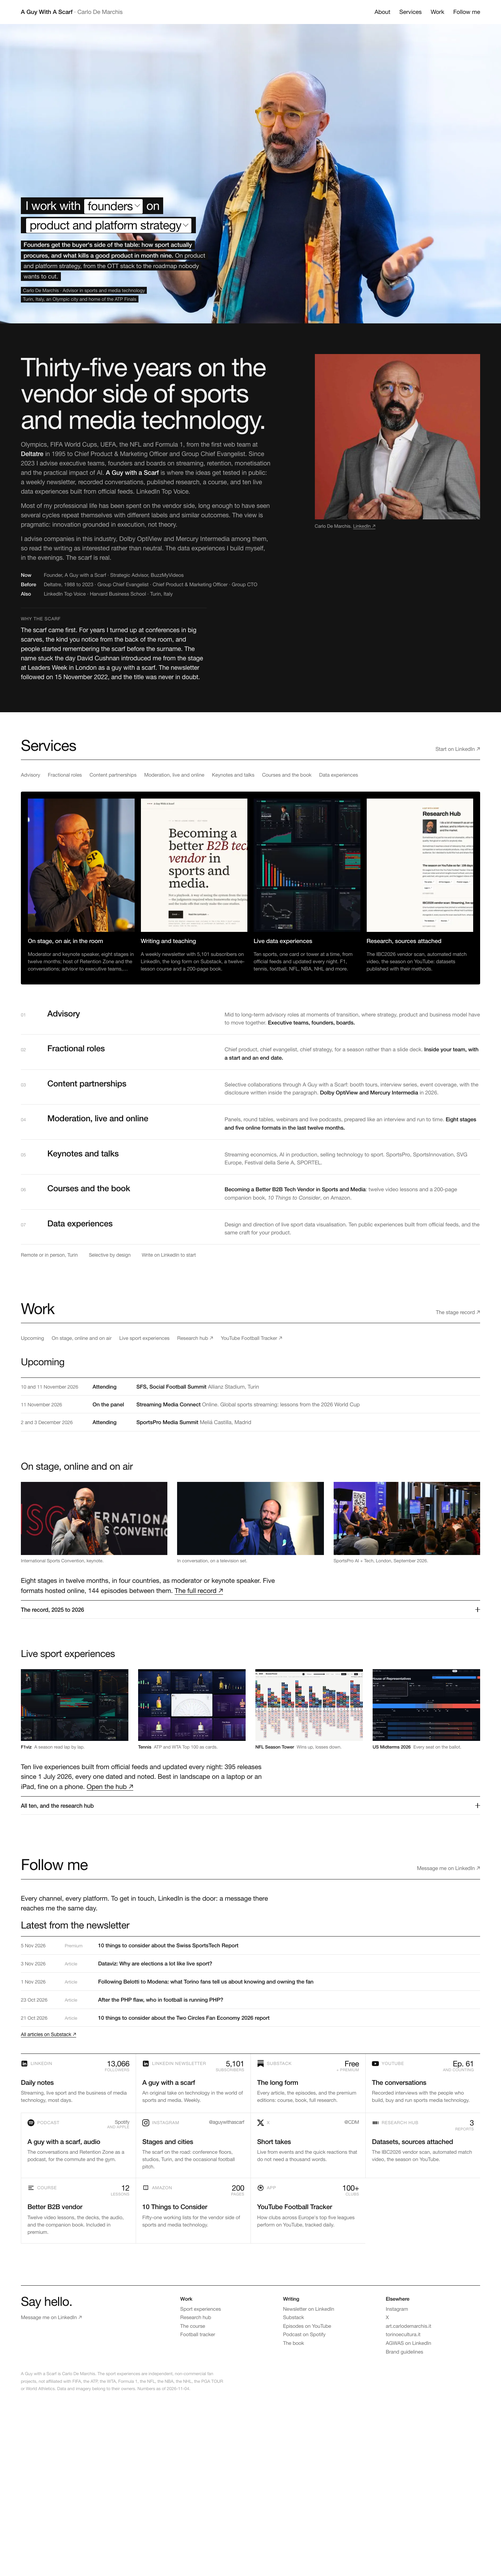
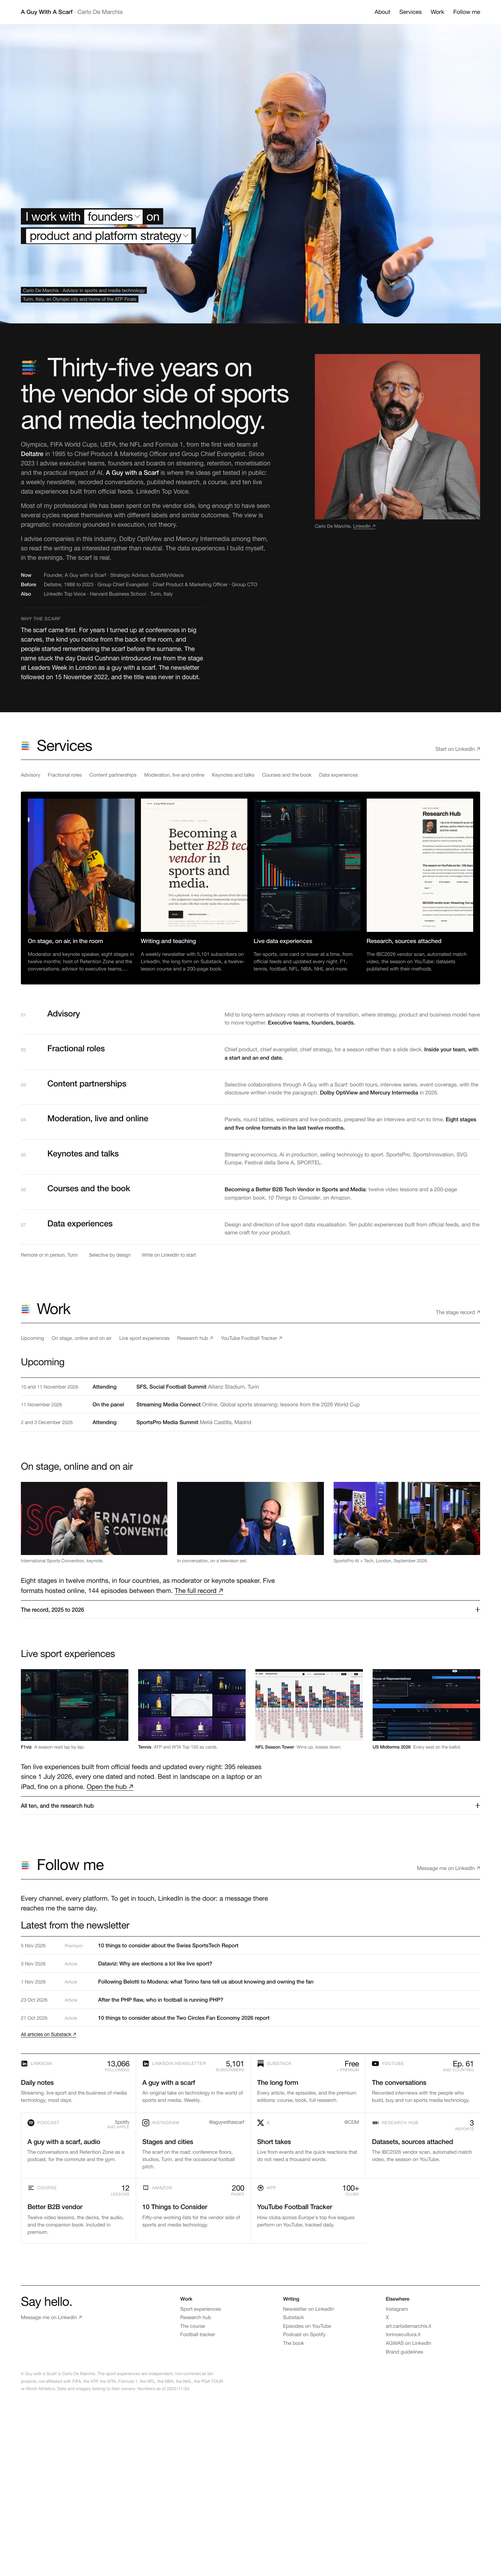
The mark before every chapter title on the home and stage pages

Changed region(s): [[0.0312, 0.0624, 0.5312, 0.1561]]

diff --git a/docs/style.css b/docs/style.css
@@ -91,6 +91,8 @@ img{display:block;max-width:100%;height:auto}
 .shead{display:flex;justify-content:space-between;align-items:baseline;gap:20px;padding-bottom:18px;border-bottom:1px solid var(--ink);margin-bottom:clamp(24px,4vh,40px)}
 .shead h2{margin:0;font-weight:400;font-size:clamp(26px,3.2vw,44px);letter-spacing:-.025em;line-height:1.05}
 .shead a{font-size:15px;color:var(--mute);white-space:nowrap}
+/* the mark before every chapter title on the home and stage pages (the brand page keeps its own heads) */
+.page-home .shead h2::before,.page-stage .shead h2::before,.page-home .feature h2::before{content:"";display:inline-block;width:.74em;height:.74em;margin-right:.3em;background:url(/brand/agwas-mark.svg) center/contain no-repeat;vertical-align:-.04em}
 .shead a:hover{color:var(--ink)}
 .lead{margin:0;max-width:70ch;font-size:clamp(17px,1.5vw,21px);line-height:1.45;letter-spacing:-.01em}
 .page-head .lead{margin-bottom:clamp(28px,4vh,44px)}

diff --git a/static/style.css b/static/style.css
@@ -91,6 +91,8 @@ img{display:block;max-width:100%;height:auto}
 .shead{display:flex;justify-content:space-between;align-items:baseline;gap:20px;padding-bottom:18px;border-bottom:1px solid var(--ink);margin-bottom:clamp(24px,4vh,40px)}
 .shead h2{margin:0;font-weight:400;font-size:clamp(26px,3.2vw,44px);letter-spacing:-.025em;line-height:1.05}
 .shead a{font-size:15px;color:var(--mute);white-space:nowrap}
+/* the mark before every chapter title on the home and stage pages (the brand page keeps its own heads) */
+.page-home .shead h2::before,.page-stage .shead h2::before,.page-home .feature h2::before{content:"";display:inline-block;width:.74em;height:.74em;margin-right:.3em;background:url(/brand/agwas-mark.svg) center/contain no-repeat;vertical-align:-.04em}
 .shead a:hover{color:var(--ink)}
 .lead{margin:0;max-width:70ch;font-size:clamp(17px,1.5vw,21px);line-height:1.45;letter-spacing:-.01em}
 .page-head .lead{margin-bottom:clamp(28px,4vh,44px)}
